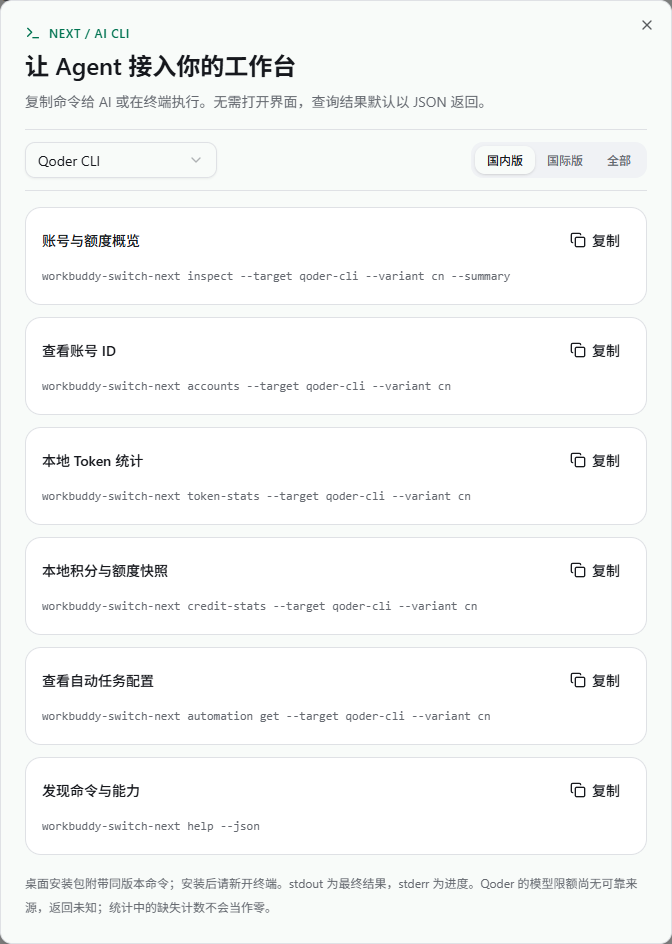
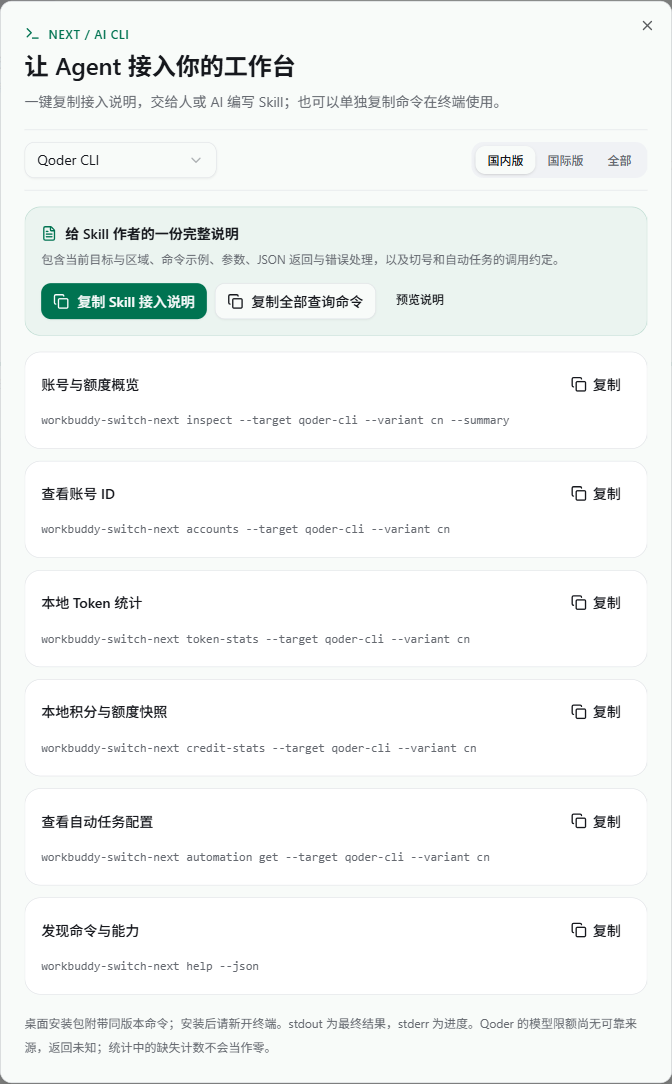
feat: 一键复制 Skill 接入说明并发布 0.2.2 RC

diff --git a/src/lib/ai-cli-guide.ts b/src/lib/ai-cli-guide.ts
@@ -1,0 +1,108 @@
+import { APP_VERSION, GITHUB_REPOSITORY_URL } from "./update";
+
+export type CliTarget = "codebuddy-cli" | "qoder-cli" | "qoder-desktop";
+export type CliRegion = "cn" | "ai" | "all";
+export type CliCommand = { title: string; command: string };
+
+export function cliQueryCommands(target: CliTarget, region: CliRegion): CliCommand[] {
+  const args = `--target ${target} --variant ${region}`;
+  return [
+    { title: "账号与额度概览", command: `workbuddy-switch-next inspect ${args} --summary` },
+    { title: "查看账号 ID", command: `workbuddy-switch-next accounts ${args}` },
+    ...(target !== "codebuddy-cli" ? [
+      { title: "本地 Token 统计", command: `workbuddy-switch-next token-stats ${args}` },
+      { title: "本地积分与额度快照", command: `workbuddy-switch-next credit-stats ${args}` },
+      { title: "查看自动任务配置", command: `workbuddy-switch-next automation get ${args}` },
+    ] : [{ title: "查看已观察到的模型限额", command: `workbuddy-switch-next limits ${args}` }]),
+    { title: "发现命令与能力", command: "workbuddy-switch-next help --json" },
+  ];
+}
+
+export function cliQueryText(target: CliTarget, region: CliRegion): string {
+  return cliQueryCommands(target, region).map(({ title, command }) => `# ${title}\n${command}`).join("\n\n");
+}
+
+/** Static reference for a Skill author: no local accounts, paths, or credentials. */
+export function cliSkillGuide(target: CliTarget, region: CliRegion): string {
+  const qoder = target !== "codebuddy-cli";
+  const args = `--target ${target} --variant ${region}`;
+  const configRegion = region === "all" ? "REGION" : region;
+  const lines = [
+    "请根据以下接入说明，为 WorkBuddy Switch Next 编写一个可复用的 Skill。先编写 Skill，不要执行下方操作示例。",
+    "",
+    "# WorkBuddy Switch Next — Skill 接入说明",
+    `说明来源版本：${APP_VERSION}。实际安装版本与能力以 CLI 返回为准。`,
+    `默认目标：${target}；默认区域：${region}（cn 国内版 / ai 国际版 / all 全部）。`,
+    "适用场景：查询账号、当前客户端状态、积分与到期信息，以及按用户要求切换账号。",
+    ...(qoder ? ["本目标还支持本地 Token / 积分统计、每日奖励领取和自动任务管理。"] : []),
+    "",
+    "## 安装与能力发现",
+    "桌面安装包附带同版本 workbuddy-switch-next 命令，也可单独安装 CLI。安装后新开终端；macOS / Linux AppImage 先启动桌面应用完成 CLI 注册。命令不可用时先定位安装路径，不猜测可执行文件位置。",
+    "```sh",
+    "workbuddy-switch-next version --json",
+    "workbuddy-switch-next help --json",
+    "```",
+    "先检查 supportedTargets 和 capabilities，再选择命令；旧版能力不足时明确说明需要升级。一次性命令执行后退出，无需启动 GUI 或 serve。",
+    "",
+    "## 常用查询命令",
+    "```sh",
+    cliQueryText(target, region),
+    "",
+    "# 当前客户端状态",
+    `workbuddy-switch-next status --target ${target}${qoder ? ` --variant ${region}` : ""}`,
+    "",
+    "# 查询积分汇总",
+    `workbuddy-switch-next credits ${args} --summary`,
+    "```",
+    ...(!qoder ? ["CodeBuddy status 不接受 --variant；它返回当前 CLI 的认证状态，其他查询按区域筛选。"] : []),
+    "",
+    "## 返回结果与错误处理",
+    "- stdout 是一个最终 JSON 对象，stderr 是进度与诊断，二者必须分开读取，不能合并后解析。按 UTF-8 解码；旧管道可加 --ascii-json。自动化调用不使用 --text。",
+    "- 公共字段：schemaVersion、ok、command、target、scope、elapsedMs、exitCode、error。error 包含 code、message、retryable、hint。检查实际进程退出码和 JSON 内容。",
+    "- 退出码：0 成功（允许空账号列表）；1 操作失败；2 参数、账号或不支持能力错误；3 部分结果；130 正常中断。部分成功时保留成功数据并逐项说明错误，不把缺失额度当作零。",
+    "- inspect / credits 的 --summary 用于紧凑展示，数值字段保留精度；*Display 字符串仅供展示。null、unknown、unlimited、unavailable 分别保留原义；检查 summary.complete 和 balanceComplete 后再判断汇总是否完整。",
+    "- 使用 accounts 返回的稳定 id，不按昵称或 ID 前缀猜测账号。查询和切号使用相同 target / variant，区分各平台的账号库。不要在 Skill 中写入实际账号、凭据或本机私有路径。",
+    "- AUTH_STATE_BUSY 表示认证锁占用；accounts / status / inspect / credits / switch 支持 --wait SECONDS 有界等待（默认 30，0 为立即失败），不要删除锁文件。inspect / credits 支持 --timeout SECONDS（每账号默认 30）和 --concurrency N（默认 4，上限 16）。不要向其他命令套用未经 help 确认的参数。正常中断会等待已开始的认证事务结束，不强制终止切号。",
+    "",
+    "## 切换账号",
+    "以下 ACCOUNT_ID 是占位符，必须替换为 accounts 返回的完整 id。先预览影响，再根据用户已授权的操作范围执行切换。不要因看到示例就自动执行。",
+    "```sh",
+    `workbuddy-switch-next switch ACCOUNT_ID ${args} --dry-run`,
+    `workbuddy-switch-next switch ACCOUNT_ID ${args}`,
+    "```",
+    qoder
+      ? `Qoder 默认拒绝切换运行中的客户端，只有用户允许关闭时才加 --close-running。${target === "qoder-desktop" ? "如需重开原本运行的桌面端，再加 --relaunch（要求 --close-running）。" : "CLI 不会自动重开，不能使用 --relaunch。"} dry-run 不写凭据、不关闭客户端，也不验证凭据是否有效。`
+      : "CodeBuddy 实际切号会关闭运行中的 CLI，影响现有会话且不会自动重开。dry-run 不写配置或关闭进程，也不验证凭据。积分查询可能刷新凭据和缓存，不能视为完全无副作用。",
+    "中断后的切号先重新查询状态再决定是否重试；不要盲目重复执行。",
+    "",
+    "## 数据边界",
+    ...(qoder ? [
+      "- 同区域、同身份的桌面端与 CLI 账号合并展示和查询。clientPrepared 仅表示已保存对应客户端账号包，不保证凭据有效。客户端状态在 clients 数组中，activeForTarget 表示对应区域目标客户端的当前账号。",
+      "- Qoder 没有可靠模型限额数据，inspect 返回 availabilityKnown=false、limitsSupported=false，limits 返回 UNSUPPORTED_CAPABILITY；不使用 --model，不猜测恢复时间或可用模型。",
+      "- Token 缺失或全零占位保持不可用；本地请求积分与额度快照观察消耗不能相加，请求历史缺少可靠账号归属时不归入当前账号。credit-stats 默认读取本地数据，加 --refresh 才刷新所选区域的额度。",
+      "",
+      "## 每日领取与自动任务（按用户授权调用）",
+      "```sh",
+      `workbuddy-switch-next credit-stats ${args} --refresh`,
+      `workbuddy-switch-next rewards ACCOUNT_ID ${args}`,
+      `workbuddy-switch-next automation get ${args}`,
+      `workbuddy-switch-next automation set --target ${target} --variant ${configRegion} --settings-file qoder-settings.json`,
+      `workbuddy-switch-next automation run ${args}`,
+      "```",
+      "rewards 必须指定账号或显式 --all，逐账号领取，不自动切号；需要 daily-runner 组件。尝试成功不等于到账，按返回结果说明失败、资格和授权状态。",
+      "automation set 必须指定 cn 或 ai，不能使用 all；REGION 占位符须替换为用户指定的区域。先读取配置，仅修改用户要求的字段。qoder-settings.json 是需创建的 JSON 补丁文件，例如：",
+      '```json\n{"dailyEnabled":true,"dailyTime":"09:00"}\n```',
+      "支持字段：dailyEnabled、dailyTime、alertsEnabled、expiryDays、lowBalance、rotateEnabled、rotateBelow、cooldownMinutes；时间为本机时区，具体约束以 CLI 校验为准。automation run 只检查已启用且到期的任务，可能领取或切号，不启动常驻调度。持续调度需桌面应用或 serve。",
+      "WebDAV 和悬浮窗接入通过平台设置管理，不能编造对应 CLI 命令。",
+    ] : [
+      "- CodeBuddy 的 clientStatus、activeAccountId、activeForTarget 表示客户端与账号状态；最终状态读取失败时查看 clientStatusError，未知当前账号不作确定判断。",
+      "- limits 读取已有模型限制观察，未观察到限制或已到恢复时间都不证明模型可用；不要主动消耗模型调用来探测。",
+      "- 本目标没有 token-stats、credit-stats、rewards、automation 命令，不套用 Qoder 的专属命令。",
+    ]),
+    "",
+    "## Skill 编写要求",
+    "把能力发现、查询、结果解释和用户授权后的修改分开。按任务选择最少必要命令，优先 inspect --summary 避免重复查询。文档中的参数只是默认值；用户明确指定其他目标或区域时，以用户要求为准。",
+    `完整 CLI 文档：${GITHUB_REPOSITORY_URL}/blob/main/docs/cli.md`,
+  ];
+  return lines.join("\n");
+}

diff --git a/src/components/ai-cli-dialog.tsx b/src/components/ai-cli-dialog.tsx
@@ -1,5 +1,5 @@
 import { useState } from "react";
-import { Check, Copy, Terminal } from "lucide-react";
+import { Check, Copy, FileText, Terminal } from "lucide-react";
 import { toast } from "sonner";
 import { Button } from "@/components/ui/button";
 import { Dialog, DialogContent, DialogDescription, DialogHeader, DialogTitle, DialogTrigger } from "@/components/ui/dialog";
@@ -8,6 +8,7 @@ import { Tabs, TabsList, TabsTrigger } from "@/components/ui/tabs";
 import { useAccountsStore } from "@/stores/accounts";
 import { useQoderView } from "@/stores/qoder-view";
 import type { PlatformId } from "@/lib/platforms";
+import { cliQueryCommands, cliQueryText, cliSkillGuide, type CliRegion, type CliTarget } from "@/lib/ai-cli-guide";
 
 function CommandRow({ title, command }: { title: string; command: string }) {
   const [copied, setCopied] = useState(false);
@@ -34,22 +35,30 @@ function CommandRow({ title, command }: { title: string; command: string }) {
 export function AiCliDialog({ platform }: { platform: PlatformId }) {
   const qoderVariant = useQoderView(s => s.variant);
   const codebuddyVariant = useAccountsStore(s => s.variant);
-  const [target, setTarget] = useState(platform === "qoder" ? "qoder-cli" : "codebuddy-cli");
-  const [region, setRegion] = useState<string>(platform === "qoder" ? qoderVariant : codebuddyVariant);
+  const [target, setTarget] = useState<CliTarget>(platform === "qoder" ? "qoder-cli" : "codebuddy-cli");
+  const [region, setRegion] = useState<CliRegion>(platform === "qoder" ? qoderVariant : codebuddyVariant);
+  const [copied, setCopied] = useState<string | null>(null);
+  const [showGuide, setShowGuide] = useState(false);
   const qoder = target !== "codebuddy-cli";
-  const args = `--target ${target} --variant ${region}`;
-  const commands = [
-    ["账号与额度概览", `workbuddy-switch-next inspect ${args} --summary`],
-    ["查看账号 ID", `workbuddy-switch-next accounts ${args}`],
-    ...(qoder ? [
-      ["本地 Token 统计", `workbuddy-switch-next token-stats ${args}`],
-      ["本地积分与额度快照", `workbuddy-switch-next credit-stats ${args}`],
-      ["查看自动任务配置", `workbuddy-switch-next automation get ${args}`],
-    ] : [["查看已观察到的模型限额", `workbuddy-switch-next limits ${args}`]]),
-    ["发现命令与能力", "workbuddy-switch-next help --json"],
-  ];
+  const commands = cliQueryCommands(target, region);
+  const guide = cliSkillGuide(target, region);
+  const queryText = cliQueryText(target, region);
+  async function copyBundle(kind: "guide" | "commands") {
+    const text = kind === "guide" ? guide : queryText;
+    try {
+      await navigator.clipboard.writeText(text);
+      setCopied(text);
+      toast.success(kind === "guide" ? "Skill 接入说明已复制，可直接发给人或 AI 编写 Skill" : "全部查询命令已复制");
+    } catch {
+      setCopied(null);
+      setShowGuide(true);
+      toast.error("无法访问剪贴板，请在接入说明中全选并手动复制");
+    }
+  }
   return <Dialog onOpenChange={open => {
     if (open) {
+      setCopied(null);
+      setShowGuide(false);
       setTarget(platform === "qoder" ? "qoder-cli" : "codebuddy-cli");
       setRegion(platform === "qoder" ? qoderVariant : codebuddyVariant);
     }
@@ -64,16 +73,25 @@ export function AiCliDialog({ platform }: { platform: PlatformId }) {
       <DialogHeader className="text-left">
         <p className="flex items-center gap-2 text-xs font-semibold tracking-wider text-primary"><Terminal className="size-4" />NEXT / AI CLI</p>
         <DialogTitle className="text-2xl">让 Agent 接入你的工作台</DialogTitle>
-        <DialogDescription className="leading-6">复制命令给 AI 或在终端执行。无需打开界面，查询结果默认以 JSON 返回。</DialogDescription>
+        <DialogDescription className="leading-6">一键复制接入说明，交给人或 AI 编写 Skill；也可以单独复制命令在终端使用。</DialogDescription>
       </DialogHeader>
       <div className="flex flex-wrap items-center justify-between gap-3 border-y py-3">
-        <Select value={target} onValueChange={setTarget}>
+        <Select value={target} onValueChange={value => { setTarget(value as CliTarget); setCopied(null); }}>
           <SelectTrigger aria-label="CLI 目标客户端" className="w-full sm:w-48"><SelectValue /></SelectTrigger>
           <SelectContent><SelectItem value="codebuddy-cli">CodeBuddy CLI</SelectItem><SelectItem value="qoder-cli">Qoder CLI</SelectItem><SelectItem value="qoder-desktop">Qoder 桌面端</SelectItem></SelectContent>
         </Select>
-        <Tabs value={region} onValueChange={setRegion}><TabsList aria-label="CLI 区域"><TabsTrigger value="cn">国内版</TabsTrigger><TabsTrigger value="ai">国际版</TabsTrigger><TabsTrigger value="all">全部</TabsTrigger></TabsList></Tabs>
+        <Tabs value={region} onValueChange={value => { setRegion(value as CliRegion); setCopied(null); }}><TabsList aria-label="CLI 区域"><TabsTrigger value="cn">国内版</TabsTrigger><TabsTrigger value="ai">国际版</TabsTrigger><TabsTrigger value="all">全部</TabsTrigger></TabsList></Tabs>
       </div>
-      <div className="grid min-w-0 gap-3">{commands.map(([title, command]) => <CommandRow key={command} title={title} command={command} />)}</div>
+      <section aria-label="批量复制" className="space-y-3 rounded-xl border border-primary/20 bg-primary/5 p-4">
+        <div><p className="flex items-center gap-2 text-sm font-semibold"><FileText className="size-4 text-primary" />给 Skill 作者的一份完整说明</p><p className="mt-1 text-xs leading-6 text-muted-foreground">包含当前目标与区域、命令示例、参数、JSON 返回与错误处理，以及切号和自动任务的调用约定。</p></div>
+        <div className="flex flex-wrap gap-2">
+          <Button aria-label="复制 Skill 接入说明" onClick={() => void copyBundle("guide")}>{copied === guide ? <Check /> : <Copy />}<span aria-live="polite">{copied === guide ? "接入说明已复制" : "复制 Skill 接入说明"}</span></Button>
+          <Button variant="outline" onClick={() => void copyBundle("commands")}>{copied === queryText ? <Check /> : <Copy />}{copied === queryText ? "查询命令已复制" : "复制全部查询命令"}</Button>
+          <Button variant="ghost" size="sm" className="text-xs" aria-expanded={showGuide} aria-controls="cli-skill-guide" onClick={() => setShowGuide(value => !value)}>{showGuide ? "收起说明" : "预览说明"}</Button>
+        </div>
+        {showGuide && <textarea id="cli-skill-guide" aria-label="Skill 接入说明" readOnly value={guide} onFocus={event => event.currentTarget.select()} className="h-64 w-full resize-y rounded-lg border bg-card p-3 font-mono text-xs leading-6 outline-none focus-visible:ring-2 focus-visible:ring-ring" />}
+      </section>
+      <div className="grid min-w-0 gap-3">{commands.map(({ title, command }) => <CommandRow key={command} title={title} command={command} />)}</div>
       <p className="text-xs leading-6 text-muted-foreground">桌面安装包附带同版本命令；安装后请新开终端。stdout 为最终结果，stderr 为进度。{qoder ? "Qoder 的模型限额尚无可靠来源，返回未知；统计中的缺失计数不会当作零。" : "限额来自已有观察记录，未观察到限制不代表模型可用。"}</p>
     </DialogContent>
   </Dialog>;

diff --git a/index.html b/index.html
@@ -100,7 +100,7 @@
       (function () {
         var timeoutMs = 10000;
         // 与 src/lib/update.ts 的 GITHUB_RELEASE_URL 一致（内联脚本不能引用打包产物）。
-        var releaseUrl = "https://github.com/coderDJing/workbuddy-switch-next/releases/latest";
+        var releaseUrl = "https://github.com/coderDJing/workbuddy-switch-next/releases/tag/preview";
         window.setTimeout(function () {
           if (window.__WB_MOUNTED__) return;
           var root = document.getElementById("root");

diff --git a/crates/wb-switch-core/src/modules/update.rs b/crates/wb-switch-core/src/modules/update.rs
@@ -24,7 +24,7 @@ use crate::modules::config::{
 pub const APP_VERSION: &str = env!("CARGO_PKG_VERSION");
 pub const GITHUB_OWNER: &str = "coderDJing";
 pub const GITHUB_REPO: &str = "workbuddy-switch-next";
-pub const UPDATE_CHANNEL: &str = "stable";
+pub const UPDATE_CHANNEL: &str = "preview";
 
 /// 成功结果缓存有效期（6 小时）。自动轮询（30 分钟）命中缓存，不发网络请求；
 /// 设置页手动检查传 force=true 绕过缓存强制刷新。

diff --git a/docs/releases/0.2.2-rc.202611062058.md b/docs/releases/0.2.2-rc.202611062058.md
@@ -1,0 +1,13 @@
+# WorkBuddy Switch Next 0.2.2-rc.202611062058
+
+本 RC 改善 AI CLI 的批量复制体验，方便直接把工具说明交给人或 AI 编写 Skill。
+
+- AI CLI 顶部新增「复制 Skill 接入说明」，一次复制当前客户端与区域、能力发现、命令示例、参数、JSON 返回字段、退出码、数据边界及操作约定。
+- 新增「复制全部查询命令」，保留各条命令的独立复制；复制查询命令不会混入切号或领取操作。
+- 接入说明随 CodeBuddy CLI、Qoder CLI、Qoder 桌面端及所选区域变化，区分各目标支持的命令与参数，不包含实际账号、凭据或本机私有路径。
+- 可预览完整说明并手动全选复制；剪贴板不可用时自动展开预览。切换客户端或区域后，复制成功提示随内容更新。
+- README、CLI 文档与界面截图同步更新。
+
+复制和预览仅生成文本，不执行命令，也不创建或安装 Skill。说明中的来源版本随构建同步，实际安装版本与能力以 CLI 返回为准。
+
+本地已验证前端构建、127 项前端测试、三个目标的复制内容、区域切换、剪贴板失败回退和小窗口布局。本 RC 使用 `preview` 更新通道，与正式版隔离。

diff --git a/docs/cli.md b/docs/cli.md
@@ -2,6 +2,12 @@
 
 一次性命令执行后退出，无需打开 GUI 或启动 webui。支持 `codebuddy-cli`（默认）、`qoder-cli` 和 `qoder-desktop`；Qoder 使用独立账号库，不混入 WorkBuddy / CodeBuddy 账号。`help --json` 返回 `supportedTargets` 和各目标的 `capabilities`，AI 可先检查能力再调用。
 
+## 一键复制给 Skill 作者
+
+打开界面侧栏的「AI CLI」，选择客户端和区域，点击「复制 Skill 接入说明」。复制内容是一份完整 Markdown，包含来源版本、能力发现、查询与操作示例、JSON 字段、退出码、数据边界和操作约定，可直接交给人或 AI 编写 Skill。内容随目标和区域变化，不包含实际账号、凭据或本机私有路径；安装版本与能力仍以实际 CLI 返回为准。
+
+只需命令时，可用「复制全部查询命令」或各行的「复制」。预览说明可以手动全选复制；剪贴板不可用时会自动展开预览。复制和预览均不执行命令，也不会创建或安装 Skill。
+
 ## Qoder 调用
 
 ```bash
